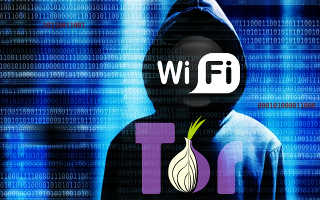
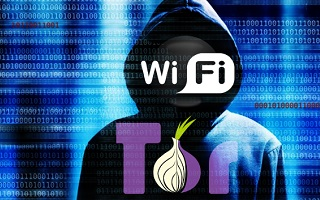
Do not add now obsolete "animated" class to animate elements (#47)
* Do not add now obsolete "animated" class to animate elements

* Update sitemap timestamps on deployment

* Delete unused image

In phpBB an old thread uses this image, but has it added as phpBB-internal attachment.

* Remove obsolete duplicate Gogs logo

* Remove obsolete duplicate Koel logo

* Use intended smaller OpenTyrian image for details page

while keeping the larger as link target, when clicking the smaller image.

* Remove unused image

* Remove obsolete SickRage image, replaced with Medusa

* Remove obsolete SickRage image, replaced with Medusa

* Remove obsolete SickRage image, replaced with Medusa

* Add reformatted Tor Hotspot images

* Use new Tor WiFi Hotspot images

* Remove obsolete image

* Syntax

* [ImgBot] Optimize images

*Total -- 184.49kb -> 164.66kb (10.75%)

/images/dietpi-logo_128x128.png -- 13.22kb -> 10.62kb (19.7%)
/images/dietpi-software/torwifihotspot_1.jpg -- 113.64kb -> 100.77kb (11.32%)
/images/dietpi-software/torwifihotspot_0.jpg -- 40.59kb -> 36.67kb (9.66%)
/apple-touch-icon.png -- 17.04kb -> 16.60kb (2.55%)

diff --git a/dietpi-software.html b/dietpi-software.html
@@ -986,7 +986,7 @@
 				<!-- End details for portfolio project 43 -->
 				<!-- Start details for portfolio project 44 -->
 				<div id="slidingdiv44" class="toggleDiv row single-project">
-					<div class="col-md-4"><a href="images/dietpi-software/opentyrian_2.jpg" target="_blank" rel="noopener"><img src="images/dietpi-software/opentyrian_2.jpg" alt="OpenTyrian" loading="lazy"></a></div>
+					<div class="col-md-4"><a href="images/dietpi-software/opentyrian_2.jpg" target="_blank" rel="noopener"><img src="images/dietpi-software/opentyrian_1.jpg" alt="OpenTyrian screenshot" loading="lazy"></a></div>
 					<div class="col-md-8">
 						<div class="project-description">
 							<div class="project-title clearfix">
@@ -1447,7 +1447,7 @@ Oldschool: Think Napster, but for buying and selling stuff using your Bitcoins <
 				</div>
 				<!-- Start details for portfolio project 69 -->
 				<div id="slidingdiv69" class="toggleDiv row single-project">
-					<div class="col-md-4"><a href="images/dietpi-software/torwifihotspot_0.jpg" target="_blank" rel="noopener"><img src="images/dietpi-software/torwifihotspot_0.jpg" alt="Tor HotSpot" loading="lazy"></a></div>
+					<div class="col-md-4"><a href="images/dietpi-software/torwifihotspot_1.jpg" target="_blank" rel="noopener"><img src="images/dietpi-software/torwifihotspot_1.jpg" alt="Tor WiFi logo" loading="lazy"></a></div>
 					<div class="col-md-8">
 						<div class="project-description">
 							<div class="project-title clearfix">
@@ -3094,7 +3094,7 @@ Perfect for users requiring anonymity and privacy.</p>
 					</div>
 					<div class="col-xl-2 col-lg-3 col-md-4 col-6 mix WiFi">
 						<a href="#downloadinfo" class="thumbnail show_hide" rel="#slidingdiv69">
-							<img src="images/dietpi-software/torwifihotspot_0.jpg" alt="project 69" loading="lazy">
+							<img src="images/dietpi-software/torwifihotspot_0.jpg" alt="Tor WiFi logo" loading="lazy">
 							<i class="more"></i>
 							<h3>Tor HotSpot</h3>
 							<p>Tor enabled WiFi HotSpot</p>

diff --git a/js/app.js b/js/app.js
@@ -58,7 +58,7 @@ $(function () {
 			// Element has not been animated yet and is in view
 			if (!$(this).hasClass('fadeInDown') && (scrollTop + $(window).innerHeight() > $(this).offset().top) && (scrollTop < $(this).offset().top + $(this).outerHeight())) {
 				// Add animate classes
-				$(this).addClass('animated fadeInDown');
+				$(this).addClass('fadeInDown');
 			}
 		});
 
@@ -109,7 +109,7 @@ $(function () {
 			// Scroll in 0.8 seconds
 			$('html, body').animate({
 				scrollTop: targetOffset
-			}, 800);
+			}, 750);
 			// Omit browser link processing
 			return false;
 		});
